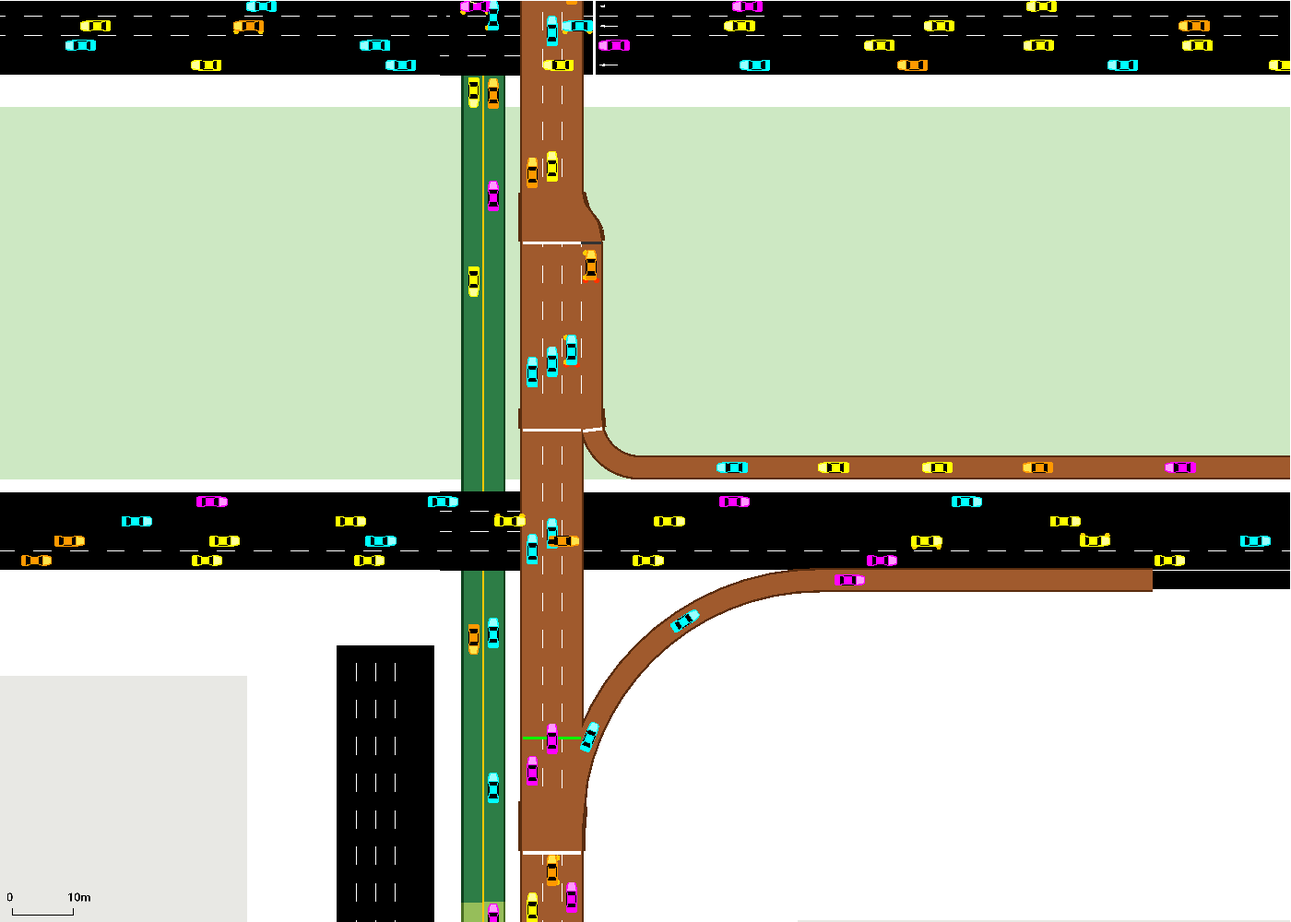
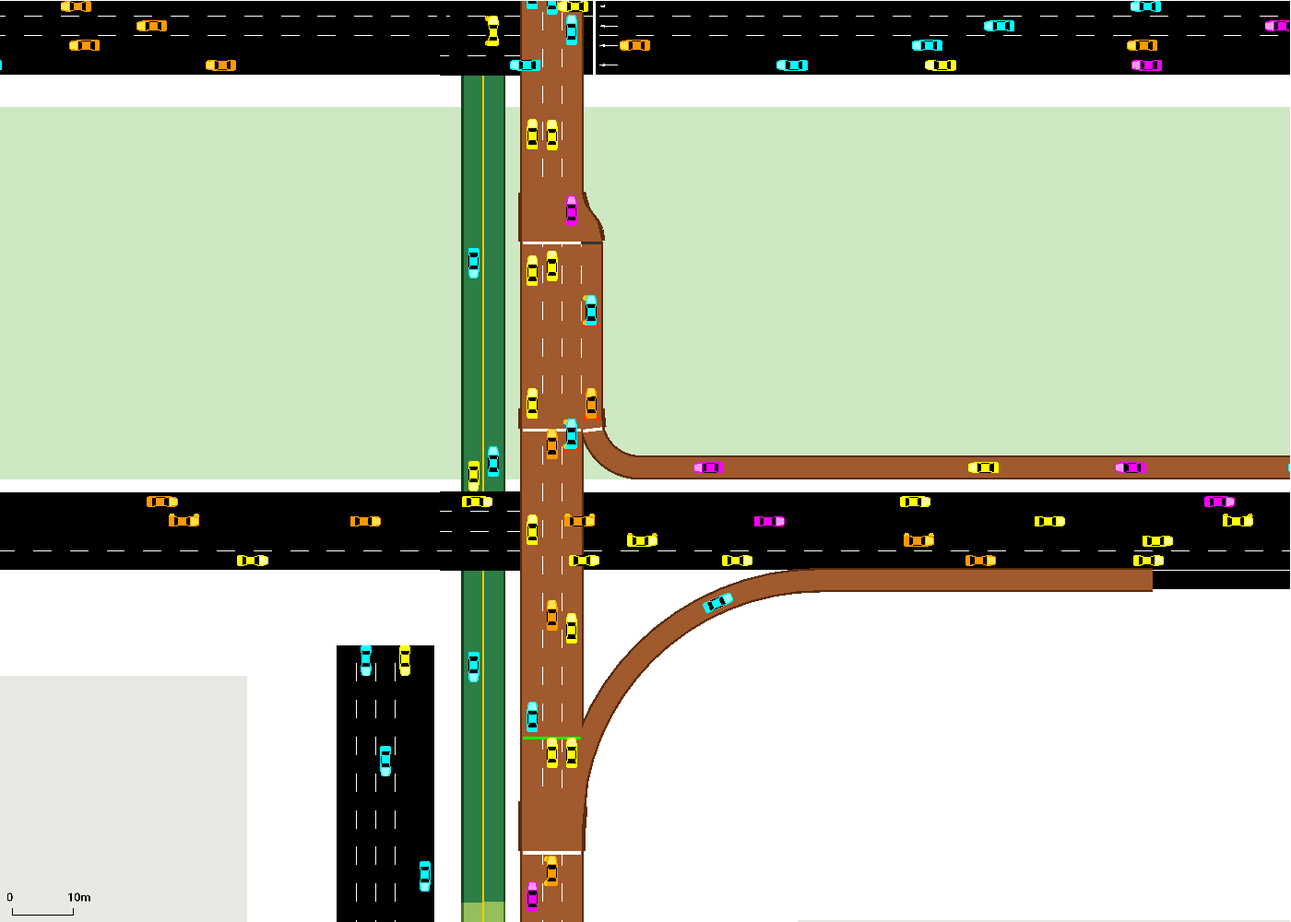
페이지 문구 · 목차 디자인 수정, 도로 그림을 최종 모델 화면으로 교체

diff --git a/docs/index.html b/docs/index.html
@@ -40,10 +40,16 @@ h1 { font-size: clamp(26px, 5vw, 40px); line-height: 1.3; margin: 0 0 16px; lett
 }
 .btn:hover { border-color: var(--accent); color: var(--accent); }
 .btn.todo { color: var(--muted); border-style: dashed; pointer-events: none; }
-nav.toc { position: sticky; top: 0; z-index: 5; background: var(--bg); border-bottom: 1px solid var(--line); }
-nav.toc .wrap { display: flex; gap: 4px; overflow-x: auto; padding-top: 8px; padding-bottom: 8px; scrollbar-width: none; }
-nav.toc a { white-space: nowrap; color: var(--muted); text-decoration: none; font-size: 14px; padding: 4px 10px; border-radius: 999px; }
-nav.toc a:hover { background: var(--chip); color: var(--text); }
+nav.toc { position: sticky; top: 0; z-index: 5; background: var(--bg-soft); border-top: 1px solid var(--line); border-bottom: 1px solid var(--line); box-shadow: 0 2px 8px rgba(0, 0, 0, 0.06); }
+nav.toc .wrap { display: flex; align-items: center; gap: 4px; overflow-x: auto; padding-top: 10px; padding-bottom: 10px; scrollbar-width: none; }
+nav.toc .wrap::-webkit-scrollbar { display: none; }
+nav.toc .toc-label { flex: none; font-size: 12px; font-weight: 700; color: var(--accent); letter-spacing: 0.04em; margin-right: 4px; padding-right: 8px; border-right: 1px solid var(--line); }
+nav.toc a { flex: none; white-space: nowrap; color: var(--text); text-decoration: none; font-size: 13.5px; font-weight: 500; padding: 4px 9px; border: 1px solid var(--line); border-radius: 999px; background: var(--bg); }
+nav.toc a .n { color: var(--accent); font-weight: 700; font-size: 11.5px; margin-right: 4px; font-variant-numeric: tabular-nums; }
+nav.toc a:hover { border-color: var(--accent); color: var(--accent); }
+nav.toc a.active { background: var(--accent); border-color: var(--accent); color: #fff; }
+nav.toc a.active .n { color: #fff; }
+section { scroll-margin-top: 56px; }
 section { padding: 48px 0; border-bottom: 1px solid var(--line); }
 section:last-of-type { border-bottom: 0; }
 h2 { font-size: 26px; margin: 0 0 8px; letter-spacing: -0.01em; }
@@ -51,6 +57,9 @@ h2 .num { color: var(--accent); margin-right: 8px; }
 h3 { font-size: 18px; margin: 28px 0 8px; }
 .sub { color: var(--muted); margin: 0 0 24px; }
 p { margin: 0 0 14px; }
+p, li, figcaption, .sub, .lede, .stat-label, td { text-wrap: pretty; }
+.nw, td code, td .tag { white-space: nowrap; }
+.note { border-left: 3px solid var(--accent); background: var(--bg-soft); border-radius: 0 8px 8px 0; padding: 12px 16px; margin: 0 0 20px; }
 a { color: var(--accent); }
 code { font-family: ui-monospace, "Cascadia Code", Consolas, monospace; font-size: 0.9em; background: var(--chip); padding: 1px 6px; border-radius: 4px; }
 pre { background: var(--bg-soft); border: 1px solid var(--line); border-radius: 8px; padding: 14px 16px; overflow-x: auto; font-size: 13.5px; line-height: 1.6; margin: 0 0 16px; }
@@ -71,7 +80,7 @@ figcaption { font-size: 14px; color: var(--muted); margin-top: 6px; }
 @media (max-width: 720px) { .overview { grid-template-columns: 1fr; } .overview figure { max-width: 360px; margin: 0 auto; } }
 .card { background: var(--bg-soft); border: 1px solid var(--line); border-radius: 10px; padding: 18px 20px; }
 .card h3 { margin-top: 0; }
-.stat { font-size: 34px; font-weight: 700; letter-spacing: -0.02em; line-height: 1.2; }
+.stat { font-size: 26px; font-weight: 700; letter-spacing: -0.02em; line-height: 1.2; }
 .stat-label { color: var(--muted); font-size: 14px; }
 ol.steps { padding-left: 20px; margin: 0 0 16px; }
 ol.steps li { margin-bottom: 8px; }
@@ -111,8 +120,9 @@ footer { padding: 32px 0 48px; color: var(--muted); font-size: 14px; }
 
 <nav class="toc" aria-label="목차">
   <div class="wrap">
-    <a href="#why">왜 이 도로</a><a href="#road">도로</a><a href="#traffic">교통</a><a href="#av">AV</a>
-    <a href="#results">결과</a><a href="#videos">영상</a><a href="#dataset">데이터</a><a href="#usage">실행법</a><a href="#limits">한계</a><a href="#slides">발표자료</a>
+    <span class="toc-label">목차</span>
+    <a href="#why"><span class="n">01</span>선택 이유</a><a href="#road"><span class="n">02</span>도로 구조</a><a href="#traffic"><span class="n">03</span>교통</a><a href="#av"><span class="n">04</span>AV 학습</a><a href="#results"><span class="n">05</span>결과</a>
+    <a href="#videos"><span class="n">06</span>영상</a><a href="#dataset"><span class="n">07</span>데이터</a><a href="#usage"><span class="n">08</span>실행법</a><a href="#limits"><span class="n">09</span>한계</a><a href="#slides"><span class="n">10</span>발표자료</a>
   </div>
 </nav>
 
@@ -121,20 +131,21 @@ footer { padding: 32px 0 48px; color: var(--muted); font-size: 14px; }
 <!-- 1. 왜 이 도로인가 -->
 <section id="why">
   <div class="wrap">
-    <h2><span class="num">01</span>왜 이 도로인가</h2>
-    <p class="sub">도로 모양은 그대로 두고 수요만 바뀐 실제 정책 변화라서, 같은 자율주행차를 두 교통 상황에서 비교할 수 있다.</p>
+    <h2><span class="num">01</span>이 도로를 선택한 이유</h2>
+    <p class="sub">실제 정책으로 도로는 그대로인 채 교통 수요만 바뀌어, 같은 자율주행차를 두 교통 상황에서 비교할 수 있다.</p>
     <div class="overview">
       <figure>
         <img src="assets/road_overview.png" alt="반포대교 남단 전체 도로망. 북쪽 한강의 잠수교와 반포대교부터 남쪽 반포대로까지" loading="lazy">
-        <figcaption>전체 도로망 (sumo-gui). 갈색은 고가, 검정은 지상, 연두는 경사로, 진초록은 둔치 도로다.</figcaption>
+        <figcaption>전체 도로망 (sumo-gui, 위가 북쪽). 갈색은 고가, 검정은 지상, 연두는 경사로, 진초록은 둔치 도로다. 구간과 램프 길이, 차로 수는 실제 값이고 모양만 직선과 원호로 단순화했다.</figcaption>
       </figure>
       <div>
         <h3>실제 정책 변화가 만든 실험</h3>
-        <p>2026년 10월 26일부터 잠수교 다리 위만 차량이 통제됐고, 지하차도와 회전교차로, 루프, 주차장은 그대로 다닌다. 도로는 거의 같은데 수요가 바뀐 셈이다. 통제 뒤 반포대교 북행 실측 교통량은 4% 늘었는데, 잠수교로 가던 차의 약 22%만 반포대교로 옮겨 온 양이다.</p>
-        <h3>위에서 보면 한 점, 실제로는 3층 입체 접속부</h3>
+        <p>2026년 10월 26일부터 잠수교 다리 위 차량 통행이 막혔다. 지하차도와 회전교차로, 루프, 주차장은 그대로 다닌다. 통제 뒤 반포대교 북행 교통량은 시간당 2,736대에서 2,858대로 4% 늘었다. 잠수교 북행으로 가던 563대 중 약 22%만 반포대교로 옮겨 온 양이다. 도로는 거의 그대로이고 바뀐 것은 교통 수요다.</p>
+        <h3>3층 입체 구조의 도로</h3>
+        <p>그림 가운데를 남북으로 지나는 길이 반포대로다. 신반포사거리 위를 지나는 갈색 길이 고가(강남터미널고가)이고, 그 양옆 검은 길이 측도다. 북쪽 한강에서 오른쪽 갈색 다리가 반포대교, 왼쪽 초록 다리가 잠수교다.</p>
         <p>고가와 지상, 지하가 겹쳐 있다. 반포대교 직전 약 300 m 안에서 합류, 왼쪽 분기, 차로 감소, 오른쪽 분기, 다시 합류가 이어진다.</p>
-        <h3>멀리 앞서 내려야 하는 결정</h3>
-        <p>잠수교 지하차도는 합류 직후 고가 쪽 왼쪽 차로에서만 갈라진다. 그래서 잠수교로 가려면 580 m 앞 고가와 측도가 갈리는 곳에서 고가를 골라야 하고, 그 안에서도 왼쪽 차로에 있어야 한다.</p>
+        <h3>이 도로에서 AV가 풀어야 하는 것</h3>
+        <p>잠수교로 가는 지하차도 입구는 고가와 측도가 합쳐진 직후, 왼쪽 끝 차로에만 있다. 그래서 잠수교로 가는 차는 580 m 앞 고가와 측도가 갈리는 곳에서 고가로 들어가 왼쪽 차로까지 옮겨야 한다. 반포대교로 가는 차는 고가와 측도가 합쳐지는 곳과 ③ 램프 합류에서 옆 차로 차와 순서를 맞춰야 하고, 올림픽대로에서 오는 차는 엮임 구간과 회전교차로에서 다른 차에 양보해야 한다.</p>
       </div>
     </div>
   </div>
@@ -144,7 +155,8 @@ footer { padding: 32px 0 48px; color: var(--muted); font-size: 14px; }
 <section id="road">
   <div class="wrap">
     <h2><span class="num">02</span>도로 구조</h2>
-    <p class="sub">구간 길이와 램프 길이, 차로 수는 OpenStreetMap과 로드뷰로 확인한 실제 값이고, 모양만 직선과 원호로 단순화했다. 수업에서 요구한 구조 모듈이 거의 다 들어 있다.</p>
+    <p class="sub">수업에서 요구한 구조 모듈이 거의 다 들어 있다.</p>
+    <p class="note"><b>도로 모양은 단순화했다.</b> 구간 길이와 램프 길이, 차로 수는 OpenStreetMap과 로드뷰로 확인한 실제 값이고, 곡선만 직선과 원호로 바꿨다.</p>
     <div class="table-wrap">
       <table>
         <thead><tr><th>모듈</th><th>위치</th><th>생기는 상호작용</th></tr></thead>
@@ -176,7 +188,7 @@ footer { padding: 32px 0 48px; color: var(--muted); font-size: 14px; }
     <h2><span class="num">03</span>교통</h2>
     <p class="sub">수요와 신호, 버스는 모두 실측 자료로 넣었다. 원자료와 계산은 <a href="https://github.com/skku-aicad-2026-team12/banpo-av/tree/main/environment/road/measured">environment/road/measured</a>에 있다.</p>
     <div class="grid three">
-      <div class="card"><h3>수요</h3><p>평일 11~15시 평균이다. 통제 전은 TOPIS 교통량조사, 통제 후는 t-data 실측을 썼다. 예를 들어 반포대로 북행은 시간당 2,181대에서 2,233대로, 올림픽대로 김포 방향은 6,937대에서 7,190대로 바뀌었다.</p></div>
+      <div class="card"><h3>수요</h3><p>통제 전은 TOPIS 교통량조사(2026년 9월), 통제 후는 t-data 실측(11/9~11)을 썼다. 시간대는 평일 11~15시 평균이다. 통제 후 반포대교 북행의 교통량은 시간당 2,736대에서 2,858대로 증가했다. 이는 통제 전 잠수교와 반포대교의 교통량을 합친 것보다는 적다.</p><p>출처가 다른 것은 t-data 지점 교통량이 최근 며칠 자료만 남아 있어 통제 전 기간을 받을 수 없었고, 통제 뒤인 11월은 TOPIS 월별 조사자료가 나오기 전이었기 때문이다.</p></div>
       <div class="card"><h3>신호 5곳</h3><p>C-ITS 신호제어기의 1초 간격 기록을 통제 전(10/21)과 통제 후(11/11) 평일로 분석했다. 신반포사거리와 북행 횡단보도, 반포대교남단은 주기 170초로 연동되고, 잠수교 쪽 2곳은 75초 주기였다가 통제 뒤 점멸로 바뀌었다.</p></div>
       <div class="card"><h3>버스 34개 노선과 보행자</h3><p>범위 안 정류소 6곳을 지나는 노선을 공식 자료에서 모두 찾아 배차 간격과 정차를 그대로 넣었다. 740번과 405번은 통제 뒤 반포대교로 우회한다. 횡단보도 7곳에 보행자가 있다.</p></div>
     </div>
@@ -207,11 +219,12 @@ footer { padding: 32px 0 48px; color: var(--muted); font-size: 14px; }
         <h3>관측 49차원</h3>
         <p>수업 기본 31차원에 경로 4(분기 2곳의 방향과 거리), 내 차로의 진행 방향 4, 신호 3(색, 정지선까지 거리, 남은 시간), 경합 차량 4, 차로 제한속도 3을 더했다.</p>
         <h3>행동</h3>
-        <p>가감속과 차로 변경(왼쪽, 유지, 오른쪽)을 함께 낸다. 속도 명령의 상한은 수업 원본과 같이 차의 최고속도뿐이고, 환경이 제한속도로 잘라 주지 않는다. 강제 제동 같은 안전장치도 쓰지 않는다.</p>
+        <p>가감속과 차로 변경(왼쪽, 유지, 오른쪽)을 함께 낸다. 속도 명령의 상한은 수업 원본과 같이 차의 최고속도뿐이고, 환경이 제한속도로 잘라 주지 않는다. 신호 중 정차, 재출발 등의 행동도 AV가 직접 판단한다.</p>
       </div>
       <div class="card">
         <h3>보상과 종료</h3>
         <p>차로 제한속도에 가까울수록 속도 보상을 받고, 도착하면 보너스를 받는다. 제한속도를 넘으면 넘은 비율의 0.5배만큼 스텝마다 감점한다. 충돌, 신호 위반, 120초 넘는 비정상 정지는 큰 벌점과 함께 판이 끝나고, 앞차와 2초 안에 부딪힐 만큼 가까워지면 접근 감점을 받는다. 빨간불 대기는 정지 시간에서 뺀다.</p>
+        <p><b>신호 위반 기준.</b> AV가 정지선을 넘어 교차로에 들어선 순간 자기 진행 방향 신호가 빨간불이면 신호 위반이다. 황색에 들어선 것은 위반이 아니다.</p>
       </div>
     </div>
     <h3>학습 순서</h3>
@@ -220,7 +233,7 @@ footer { padding: 32px 0 48px; color: var(--muted); font-size: 14px; }
       <li><strong>BC와 DAgger.</strong> 시범으로 행동을 복제하고, 정책이 스스로 간 상태에도 흔들림 DAgger로 정답을 붙인다. 드문 감속 스텝에 가중치를 줘서 BC 중 가장 나은 모델을 얻었다.</li>
       <li><strong>선생님 보정 PPO.</strong> 그냥 이어서 학습한 PPO는 감속을 풀어 충돌이 늘었다. 그래서 PPO 업데이트마다 그 rollout의 관측에 선생님 정답으로 BC를 한 번 더 해 감속을 붙잡았다.</li>
       <li><strong>상한 없는 환경에서 이어서 학습.</strong> 처음에는 환경이 속도 명령을 제한속도로 잘랐는데, 이것을 빼고 과속 감점을 넣은 환경에서 같은 방식으로 이어서 학습했다. U5에서 36.8만 스텝(VA), 거기서 다시 26.2만 스텝(VA2)이다. 저장 모델들은 학습에 쓰지 않은 선별용 250판으로 비교했다.</li>
-      <li><strong>확정.</strong> 선별에도 쓰지 않은 새 시드 1,000판으로 한 번만 평가해 최종 모델을 정했다.</li>
+      <li><strong>모델 평가.</strong> 선별에 사용되지 않은 시드 1,000판으로 한 번만 평가해 최종 모델을 정했다.</li>
     </ol>
   </div>
 </section>
@@ -229,28 +242,32 @@ footer { padding: 32px 0 48px; color: var(--muted); font-size: 14px; }
 <section id="results">
   <div class="wrap">
     <h2><span class="num">05</span>결과</h2>
-    <p class="sub">최종 모델 <code>results/team_rl_1125_VA2/model_261632.pt</code>를 새 시드 1,000판(5개 경로 × 200판, 판 800~999)에서 출발 차로를 무작위로, 안전장치 없이 평가했다. 전체 결과는 <a href="https://github.com/skku-aicad-2026-team12/banpo-av/blob/main/evaluation/eval/final_VA2_261632/report.md">확정 평가 보고서</a>에 있다.</p>
+    <p class="sub">최종 모델 <code>results/team_rl_1125_VA2/model_261632.pt</code>를 새 시드 1,000판(5개 경로 × 200판, 판 800~999)에서 출발 차로를 무작위로, 안전장치 없이 평가했다. 전체 결과는 <a href="https://github.com/skku-aicad-2026-team12/banpo-av/blob/main/evaluation/eval/final_VA2_261632/report.md">최종 평가 보고서</a>에 있다.</p>
     <div class="grid three">
-      <div class="card"><div class="stat">97.6%</div><div class="stat-label">도착률 (1,000판 중 976판)</div></div>
-      <div class="card"><div class="stat">0.6%</div><div class="stat-label">충돌률 (95% 구간 0.3~1.3%, 수업 기준은 5% 미만)</div></div>
-      <div class="card"><div class="stat">24판</div><div class="stat-label">실패: 신호 위반 13, 충돌 6, 시간초과 5 (오류와 순간이동은 0)</div></div>
+      <div class="card"><div class="stat">도착률 97.6%</div><div class="stat-label">1,000판 중 976판 도착</div></div>
+      <div class="card"><div class="stat">충돌률 0.6%</div><div class="stat-label">95% 구간 0.3~1.3%</div></div>
+      <div class="card"><div class="stat"><span class="nw">1,000판 중</span> <span class="nw">24판 실패</span></div><div class="stat-label">충돌 6, 신호 위반 13, 시간초과 5</div></div>
     </div>
     <h3>경로별</h3>
     <div class="table-wrap">
       <table>
-        <thead><tr><th>경로</th><th class="num">도착</th><th>실패</th><th class="num">주행 시간 (s)</th><th class="num">SUMO 운전자 (s)</th><th class="num">앞차 최소 간격 (m)</th><th class="num">SUMO 운전자 (m)</th></tr></thead>
+        <thead><tr><th>경로</th><th class="num">도착</th><th class="nw">실패</th><th class="num">주행 시간 (s)</th><th class="num">SUMO 운전자 (s)</th><th class="num">앞차 최소 간격 (m)</th><th class="num">SUMO 운전자 (m)</th></tr></thead>
         <tbody>
-          <tr><td><span class="tag before">통제 전</span><code>goga-jamsu</code></td><td class="num">97.5%</td><td>신호 위반 5</td><td class="num">224.6</td><td class="num">216.0</td><td class="num">14.5</td><td class="num">8.5</td></tr>
-          <tr><td><span class="tag before">통제 전</span><code>oly-jamsu</code></td><td class="num">94%</td><td>신호 위반 7, 충돌 5</td><td class="num">251.9</td><td class="num">236.1</td><td class="num">13.0</td><td class="num">8.9</td></tr>
-          <tr><td><span class="tag after">통제 후</span><code>side-banpo</code></td><td class="num">96.5%</td><td>시간초과 5, 충돌 1, 신호 위반 1</td><td class="num">305.5</td><td class="num">253.5</td><td class="num">11.8</td><td class="num">6.7</td></tr>
+          <tr><td><span class="tag before">통제 전</span><code>goga-jamsu</code></td><td class="num">97.5%</td><td><span class="nw">신호 위반 5</span></td><td class="num">224.6</td><td class="num">216.0</td><td class="num">14.5</td><td class="num">8.5</td></tr>
+          <tr><td><span class="tag before">통제 전</span><code>oly-jamsu</code></td><td class="num">94%</td><td><span class="nw">충돌 5,</span> <span class="nw">신호 위반 7</span></td><td class="num">251.9</td><td class="num">236.1</td><td class="num">13.0</td><td class="num">8.9</td></tr>
+          <tr><td><span class="tag after">통제 후</span><code>side-banpo</code></td><td class="num">96.5%</td><td><span class="nw">충돌 1,</span> <span class="nw">신호 위반 1,</span> <span class="nw">시간초과 5</span></td><td class="num">305.5</td><td class="num">253.5</td><td class="num">11.8</td><td class="num">6.7</td></tr>
           <tr><td><span class="tag after">통제 후</span><code>goga-banpo</code></td><td class="num">100%</td><td>없음</td><td class="num">128.2</td><td class="num">124.5</td><td class="num">11.9</td><td class="num">7.5</td></tr>
           <tr><td><span class="tag after">통제 후</span><code>sbr-banpo</code></td><td class="num">100%</td><td>없음</td><td class="num">136.5</td><td class="num">125.2</td><td class="num">12.4</td><td class="num">7.5</td></tr>
         </tbody>
       </table>
     </div>
-    <p>주행 시간과 간격은 도착한 판의 평균이다. 비교 대상은 같은 출발 조건에서 SUMO 기본 운전자 모델이 같은 경로를 달린 값이다. 학습한 차는 앞차와 간격을 4~5 m 더 두고, 그만큼 조금 늦게 도착한다. 측도에서 출발하는 <code>side-banpo</code>는 신반포사거리 빨간불에서 평균 88초를 기다려서 차이가 가장 크다.</p>
+    <p>주행 시간과 간격은 도착한 판의 평균이다. 비교 대상은 같은 출발 조건에서 SUMO 기본 운전자 모델이 같은 경로를 달린 값이다.<br>
+    학습한 차는 앞차와 간격을 4~5 m 더 두고, 그만큼 조금 늦게 도착한다.<br>
+    측도에서 출발하는 <code>side-banpo</code>는 신반포사거리 빨간불에서 평균 88초를 기다려서 차이가 가장 크다.</p>
     <h3>과속</h3>
-    <p>과속은 합격 기준으로 삼지 않고, 넘은 폭별로 그대로 공개한다. 1,000판 전체 416,916스텝에서 차로 제한속도를 조금이라도 넘은 스텝은 1.761%였고, 대부분은 제한속도에 붙어 1~2 km/h 위로 달린 것이다. 교차로 안쪽 차로도 포함해 셌다.</p>
+    <p>과속은 합격 기준으로 삼지 않고, 넘은 폭별로 그대로 공개한다.<br>
+    1,000판 전체 416,916스텝 중 차로 제한속도를 조금이라도 넘은 스텝은 1.761%다.<br>
+    대부분은 제한속도에 붙어 1~2 km/h 위로 달린 것이고, 교차로 안쪽 차로도 포함해 셌다.</p>
     <div class="table-wrap">
       <table>
         <thead><tr><th>구분</th><th class="num">초과 &gt; 0 km/h</th><th class="num">&gt; 1 km/h</th><th class="num">&gt; 2 km/h</th><th class="num">&gt; 5 km/h</th><th class="num">최대 초과 (km/h)</th></tr></thead>
@@ -264,7 +281,8 @@ footer { padding: 32px 0 48px; color: var(--muted); font-size: 14px; }
         </tbody>
       </table>
     </div>
-    <p>환경이 속도를 제한속도로 잘라 주던 이전 최종 모델(U5)은 같은 규모 평가에서 도착 98.8%, 충돌 0.8%였다. 상한을 빼고 다시 학습하면서 도착률은 1.2%p 낮아졌고 충돌률은 비슷하다.</p>
+    <p>환경이 속도를 제한속도로 잘라 주던 이전 최종 모델(U5)은 같은 규모 평가에서 도착 98.8%, 충돌 0.8%였다.<br>
+    상한을 빼고 다시 학습하면서 도착률은 1.2%p 낮아졌고 충돌률은 비슷하다.</p>
   </div>
 </section>
 
@@ -295,7 +313,7 @@ footer { padding: 32px 0 48px; color: var(--muted); font-size: 14px; }
     <p class="sub">최종 모델이 두 시나리오, 5개 경로를 달린 주행 기록이다. <a href="https://huggingface.co/datasets/skku-aicad-2026-team12/banpo-av-dataset-v2">Hugging Face에서 받기</a></p>
     <div class="grid three">
       <div class="card"><div class="stat">26,000판</div><div class="stat-label">10,844,678행, 결측(NaN) 0, 건너뛴 판 0, 중복 궤적 0</div></div>
-      <div class="card"><div class="stat">97.60%</div><div class="stat-label">도착 25,375판. 충돌 190(0.73%), 신호 위반 300, 시간초과 115, 정지 20</div></div>
+      <div class="card"><div class="stat">도착률 97.60%</div><div class="stat-label">25,375판 도착. 충돌 190(0.73%), 신호 위반 300, 시간초과 115, 정지 20</div></div>
       <div class="card"><div class="stat">136.6 GB</div><div class="stat-label">JSONL.gz 26개(135.5 GB)와 학습용 NPZ 26개(1.1 GB), 1,000판씩 26묶음</div></div>
     </div>
     <h3>경로별</h3>
@@ -343,11 +361,11 @@ python -X utf8 data_collection/collect_pomdp_data.py --model results/team_rl_112
   <div class="wrap">
     <h2><span class="num">09</span>한계</h2>
     <ul>
-      <li>이전 모델(U5)의 실패 판을 같은 시드로 규칙 정책(선생님)에게 돌려 보니 선생님도 대부분 실패했다. 녹색 끝 무렵 정지선 앞에서 늦게 감속하는 경우가 가장 많았고, 좌회전 전용 차로에 갇히거나 회전교차로에서 틈을 못 찾는 판도 있었다. 최종 모델(VA2)의 확정 평가 1,000판에서는 선생님과 모델이 둘 다 실패한 판이 2판(<code>side-banpo</code> 시간초과 1판, <code>oly-jamsu</code> 1판)이다.</li>
-      <li><code>oly-jamsu</code>는 도착률이 94%로 가장 낮다. 실패 12판 중 신호 위반이 7판, 충돌이 5판이다.</li>
+      <li>이전 모델(U5)의 실패 판을 같은 시드로 규칙 정책(선생님)에게 돌려 보니 선생님도 대부분 실패했다. 녹색 끝 무렵 정지선 앞에서 늦게 감속하는 경우가 가장 많았고, 좌회전 전용 차로에 갇히거나 회전교차로에서 틈을 못 찾는 판도 있었다. 최종 모델(VA2)의 평가 1,000판에서는 선생님과 모델이 둘 다 실패한 판이 2판(<code>side-banpo</code> 시간초과 1판, <code>oly-jamsu</code> 1판)이다.</li>
+      <li><code>oly-jamsu</code>는 도착률이 94%로 가장 낮다. 실패 12판 중 충돌이 5판, 신호 위반이 7판이다.</li>
       <li>가장 크게 넘은 과속(약 10 km/h)은 회전교차로 안쪽 차로나 제한속도가 낮아지는 지점 바로 뒤에서 나온다. 관측의 "다음 제한속도"가 교차로 안쪽 차로를 보지 못하기 때문이다.</li>
       <li>신반포로에서 반포대교로 가는 경로는 2번 차로 출발을 뺐다. 그 차로에서는 규칙 정책도 길을 찾지 못하고 선다.</li>
-      <li>도로 모양은 직선과 원호로 단순화했고, 수요는 평일 11~15시 평균 하나만 썼다.</li>
+      <li>수요는 평일 11~15시 평균 하나만 썼다. 출퇴근 시간처럼 더 붐비는 때는 따로 학습하거나 평가하지 않았다.</li>
     </ul>
   </div>
 </section>
@@ -356,7 +374,7 @@ python -X utf8 data_collection/collect_pomdp_data.py --model results/team_rl_112
 <section id="slides">
   <div class="wrap">
     <h2><span class="num">10</span>발표자료</h2>
-    <p>최종발표 자료(16쪽). <a href="https://drive.google.com/file/d/1QvCuYaPnv4GxPrF2CouUzCrBJJRM5HHv/view">PDF 보기 (Google Drive)</a>. PDF에서는 영상이 재생되지 않으므로 주행 영상은 위 06 영상 절에서 본다.</p>
+    <p>최종발표 자료(16쪽). <a href="https://drive.google.com/file/d/1QvCuYaPnv4GxPrF2CouUzCrBJJRM5HHv/view">PDF 보기 (Google Drive)</a>.</p>
   </div>
 </section>
 
@@ -378,6 +396,21 @@ python -X utf8 data_collection/collect_pomdp_data.py --model results/team_rl_112
     root.setAttribute("data-theme", next);
     try { localStorage.setItem(key, next); } catch (e) {}
   });
+})();
+(function () {
+  var links = document.querySelectorAll("nav.toc a");
+  if (!("IntersectionObserver" in window) || !links.length) return;
+  var byId = {};
+  links.forEach(function (a) { byId[a.getAttribute("href").slice(1)] = a; });
+  var io = new IntersectionObserver(function (entries) {
+    entries.forEach(function (e) {
+      if (!e.isIntersecting) return;
+      links.forEach(function (a) { a.classList.remove("active"); });
+      var a = byId[e.target.id];
+      if (a) { a.classList.add("active"); var w = a.parentNode; w.scrollLeft = a.offsetLeft - (w.clientWidth - a.offsetWidth) / 2; }
+    });
+  }, { rootMargin: "-30% 0px -60% 0px" });
+  document.querySelectorAll("main section[id]").forEach(function (sec) { io.observe(sec); });
 })();
 </script>
 </body>

diff --git a/README.md b/README.md
@@ -26,8 +26,8 @@
 | 시나리오 | 경로 | 도착 | 실패 |
 |---|---|---|---|
 | 통제 전 | `goga-jamsu` 고가에서 잠수교로 | 97.5% | 신호 위반 5 |
-| 통제 전 | `oly-jamsu` 올림픽대로에서 잠수교로 | 94% | 신호 위반 7, 충돌 5 |
-| 통제 후 | `side-banpo` 측도에서 반포대교로 | 96.5% | 시간초과 5, 충돌 1, 신호 위반 1 |
+| 통제 전 | `oly-jamsu` 올림픽대로에서 잠수교로 | 94% | 충돌 5, 신호 위반 7 |
+| 통제 후 | `side-banpo` 측도에서 반포대교로 | 96.5% | 충돌 1, 신호 위반 1, 시간초과 5 |
 | 통제 후 | `goga-banpo` 고가에서 반포대교로 | 100% | 없음 |
 | 통제 후 | `sbr-banpo` 신반포로에서 반포대교로 | 100% | 없음 |
 
